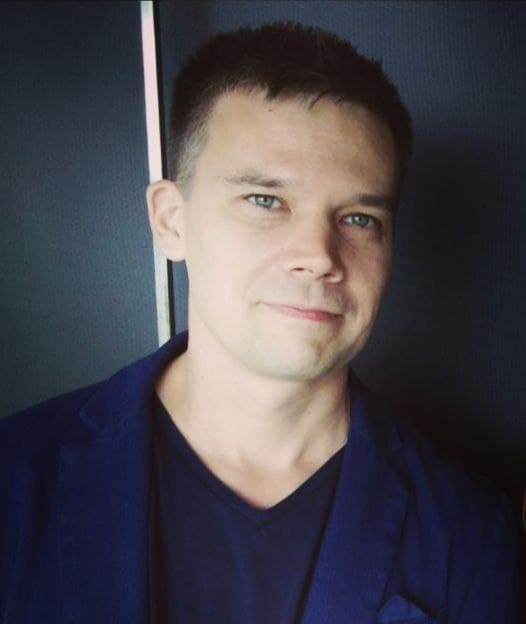
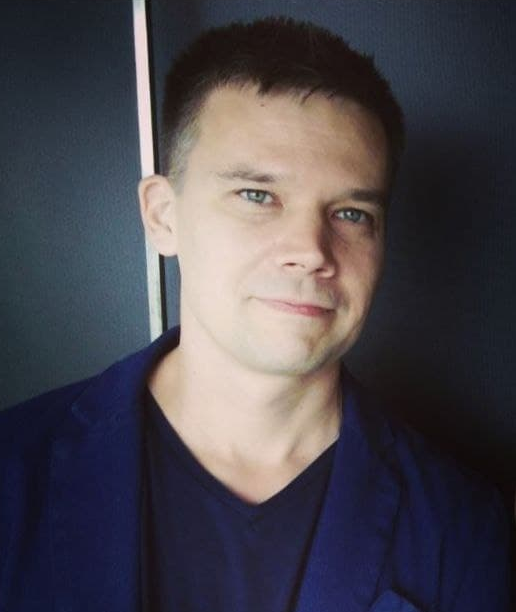
little upgrade

diff --git a/src/nav/Nav.js b/src/nav/Nav.js
@@ -22,7 +22,7 @@ function Nav() {
                     to="skills"
                     spy={true}
                     smooth={true}
-                    offset={1}
+                    offset={-30}
                     duration= {500}
                 >Skills</Link>
             {/*<a href={'#projects'}>Projects</a>*/}
@@ -31,7 +31,7 @@ function Nav() {
                         to="projects"
                         spy={true}
                         smooth={true}
-                        offset={1}
+                        offset={-30}
                         duration= {500}
                     >Projects</Link>
             {/*<a href={'#contacts'}>Contacts</a>*/}
@@ -40,7 +40,7 @@ function Nav() {
                             to="contacts"
                             spy={true}
                             smooth={true}
-                            offset={31}
+                            offset={-30}
                             duration= {500}
                         >Contacts</Link>
         </div>

diff --git a/src/main/Main.module.scss b/src/main/Main.module.scss
@@ -3,26 +3,29 @@
 
 .block {
   background-color: $bg2Color;
-    height: 100vh;
+  height: 100vh;
   display: flex;
   align-items: center;
   justify-content: space-between;
-  .particles{
+  position: relative;
+
+  .particles {
     opacity: 0.3;
     position: absolute;
     left: 0;
     top: 0;
     right: 0;
     bottom: 0;
-height: 400px;
+    height: 400px;
 
   }
+
   .maincontainer {
     width: 80%;
     margin: 0 auto;
     display: flex;
     align-items: center;
-    justify-content: space-between;
+    justify-content: space-around;
     flex-wrap: wrap;
     z-index: 1;
     @media screen and (max-width: 709px) {
@@ -48,7 +51,7 @@ height: 400px;
 
     .photo {
       display: flex;
-      height: 400px;
+      height: 320px;
       background-color: rgba(11, 52, 79, 0.78);
       z-index: 1;
       /*&:hover{

diff --git a/src/contacts/contacts.module.scss b/src/contacts/contacts.module.scss
@@ -2,7 +2,7 @@
 
 .contactBlock {
   background-color: $bgColor;
-  padding: 50px 0;
+  padding:  50px 0;
 
   .contactContainer {
     width: 80%;

diff --git a/src/footer/footer.module.scss b/src/footer/footer.module.scss
@@ -3,7 +3,7 @@
 
 .footerBlock {
   background-color: $bg2Color;
-  padding: 50px 0;
+  padding: 40px 0;
 
   .footerContainer {
     width: 80%;
